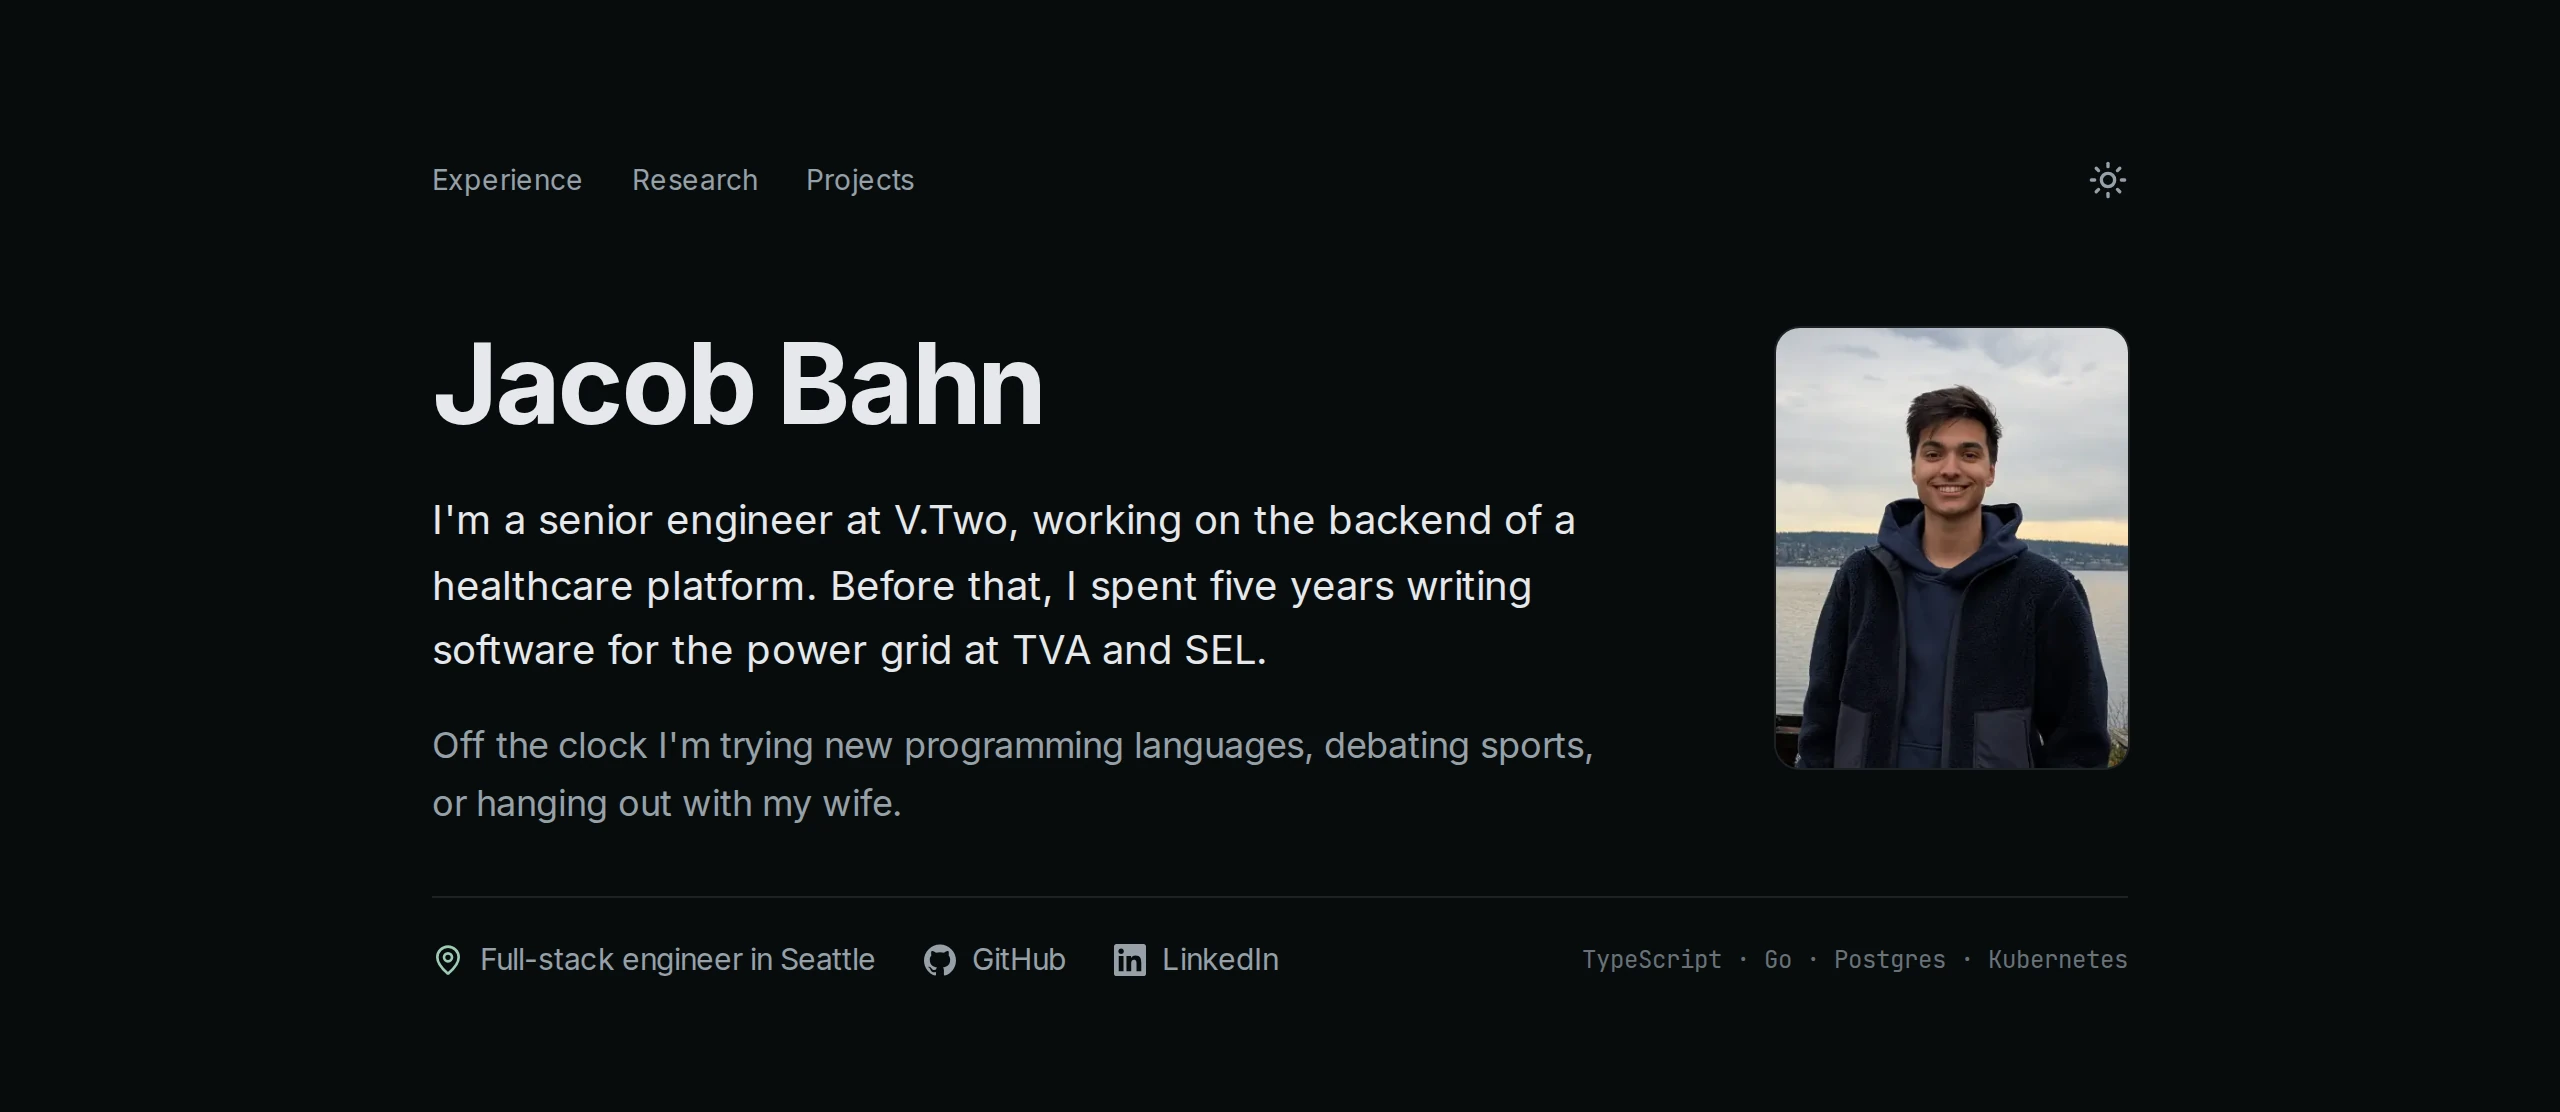
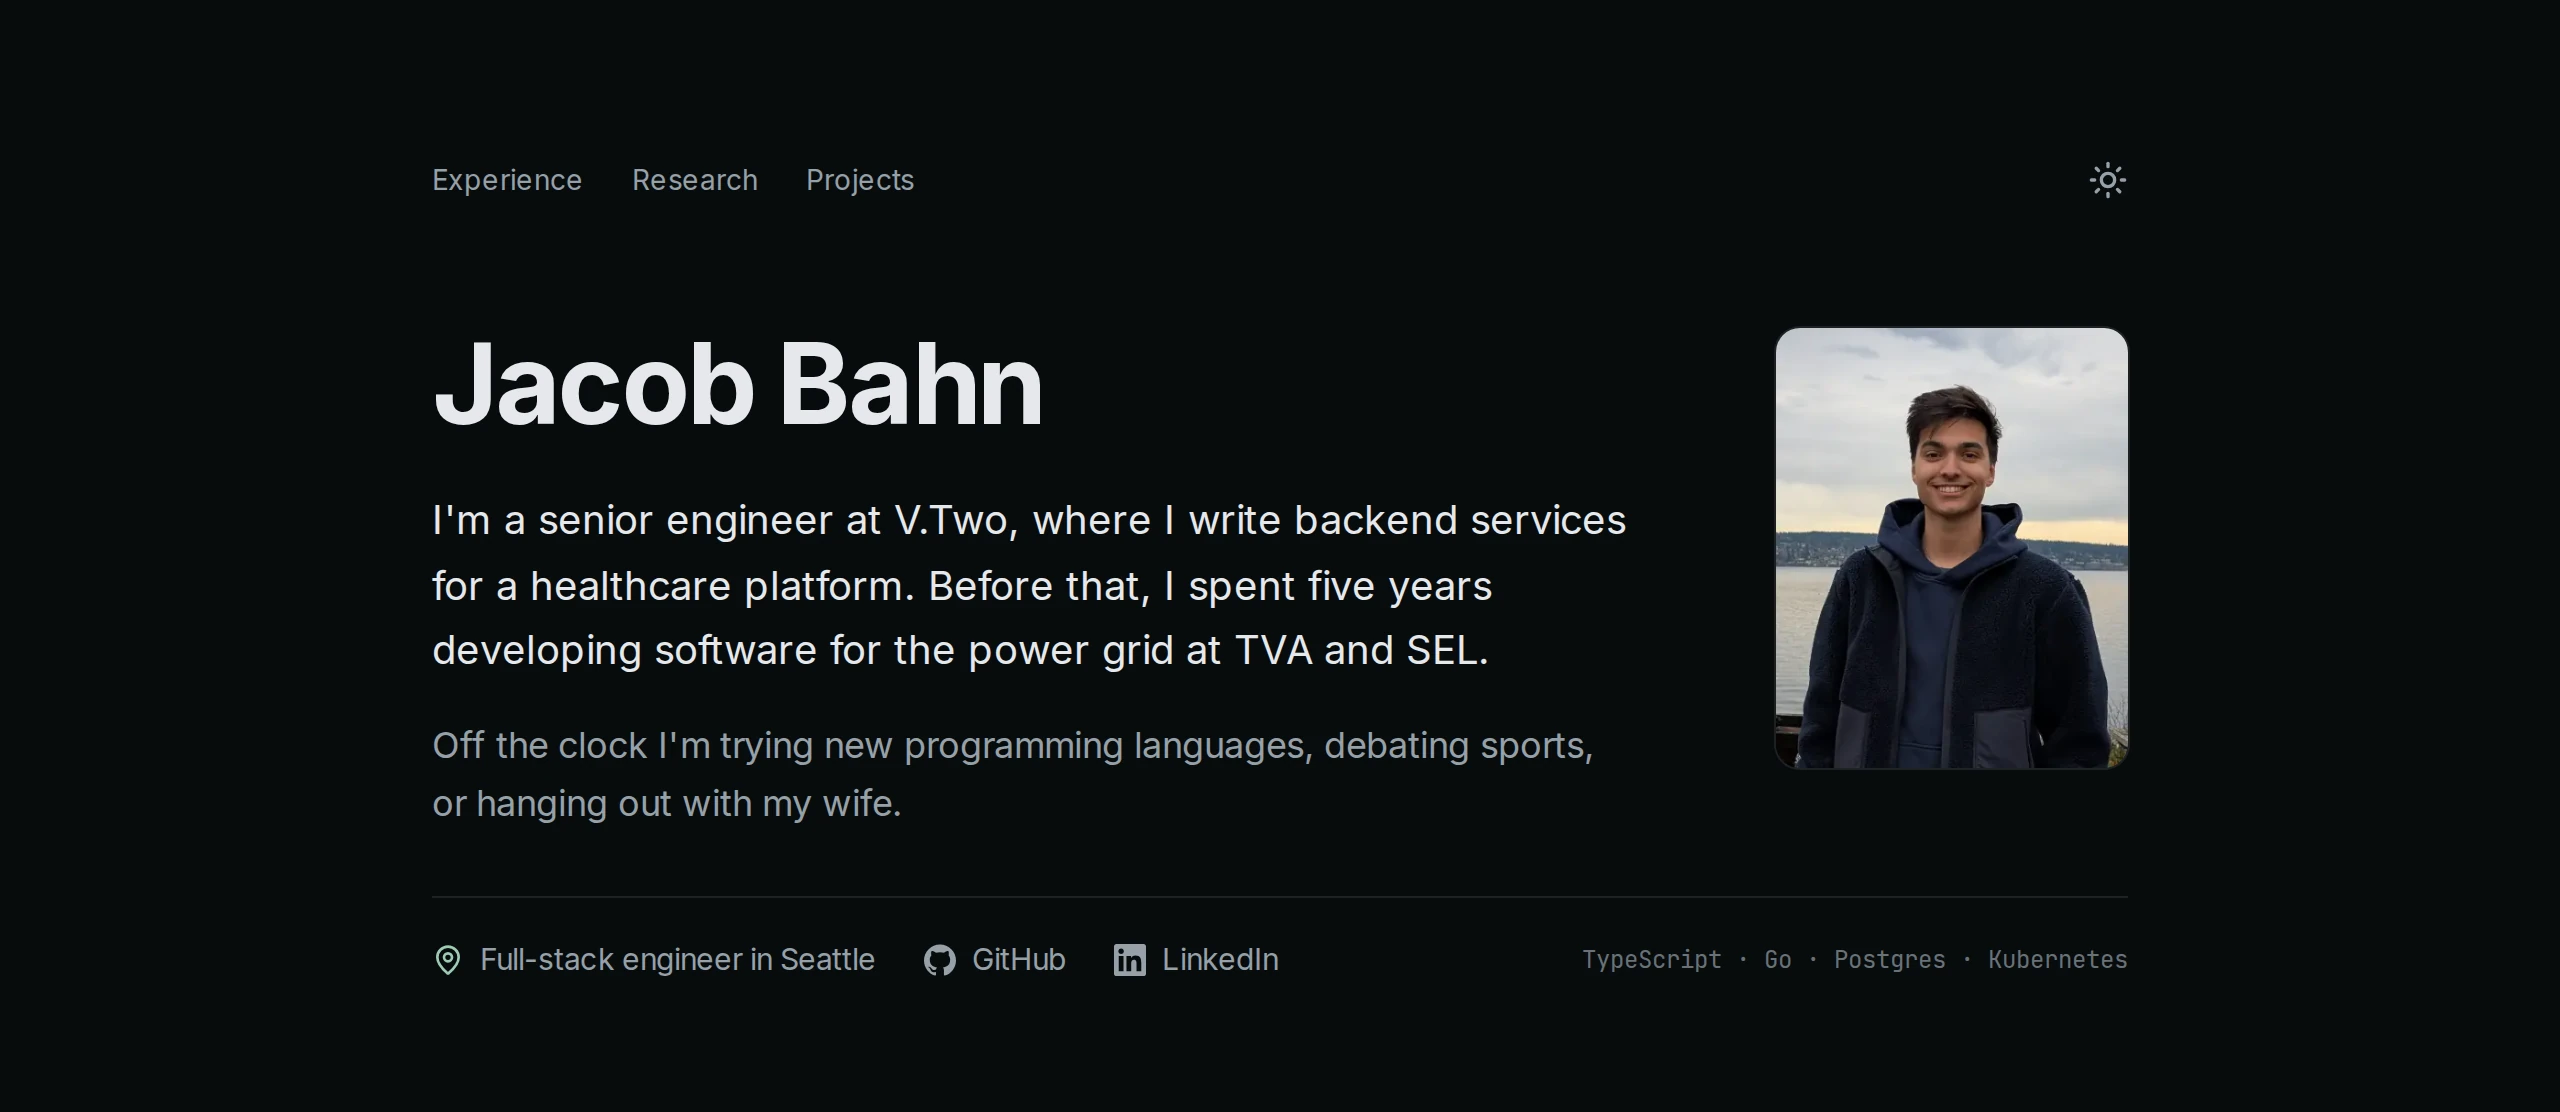
feat(hero): say what the V.Two role writes, and vary the verbs

Changed region(s): [[0.1562, 0.5198, 0.5938, 0.6115], [0.4062, 0.4586, 0.6562, 0.4892]]

diff --git a/components/hero.tsx b/components/hero.tsx
@@ -28,9 +28,9 @@ export function Hero() {
         </h1>
         <div className="col-span-2 mt-6 max-w-[60ch] md:col-span-1 md:row-start-2">
           <p className="text-pretty text-lg leading-relaxed text-foreground md:text-xl">
-            I&apos;m a senior engineer at V.Two, working on the backend of a
-            healthcare platform. Before that, I spent five years writing
-            software for the power grid at TVA and SEL.
+            I&apos;m a senior engineer at V.Two, where I write backend services
+            for a healthcare platform. Before that, I spent five years
+            developing software for the power grid at TVA and SEL.
           </p>
           <p className="mt-4 text-pretty leading-relaxed text-muted-foreground md:text-lg">
             Off the clock I&apos;m trying new programming languages, debating
